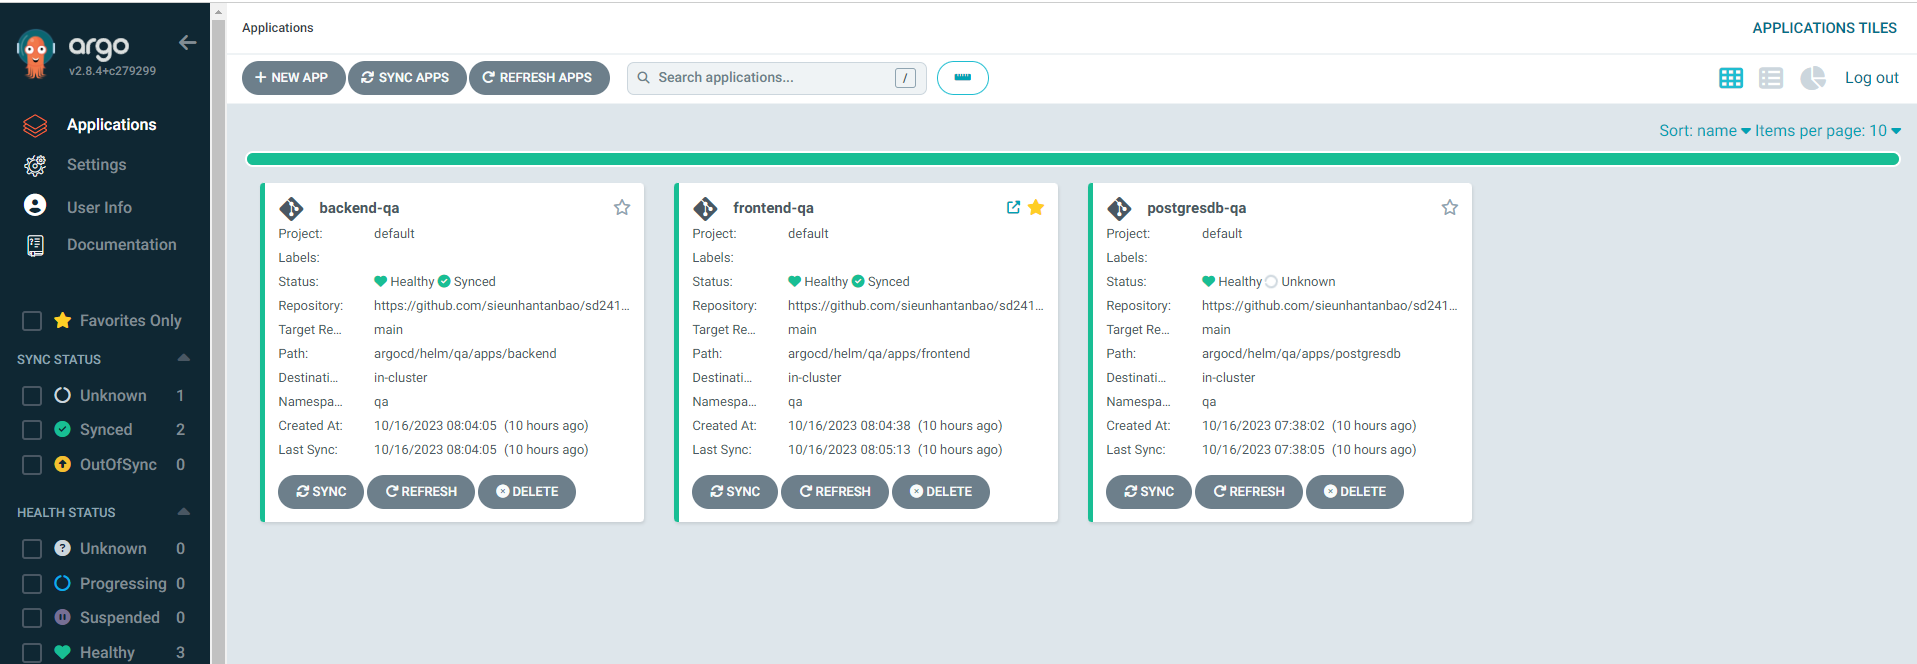
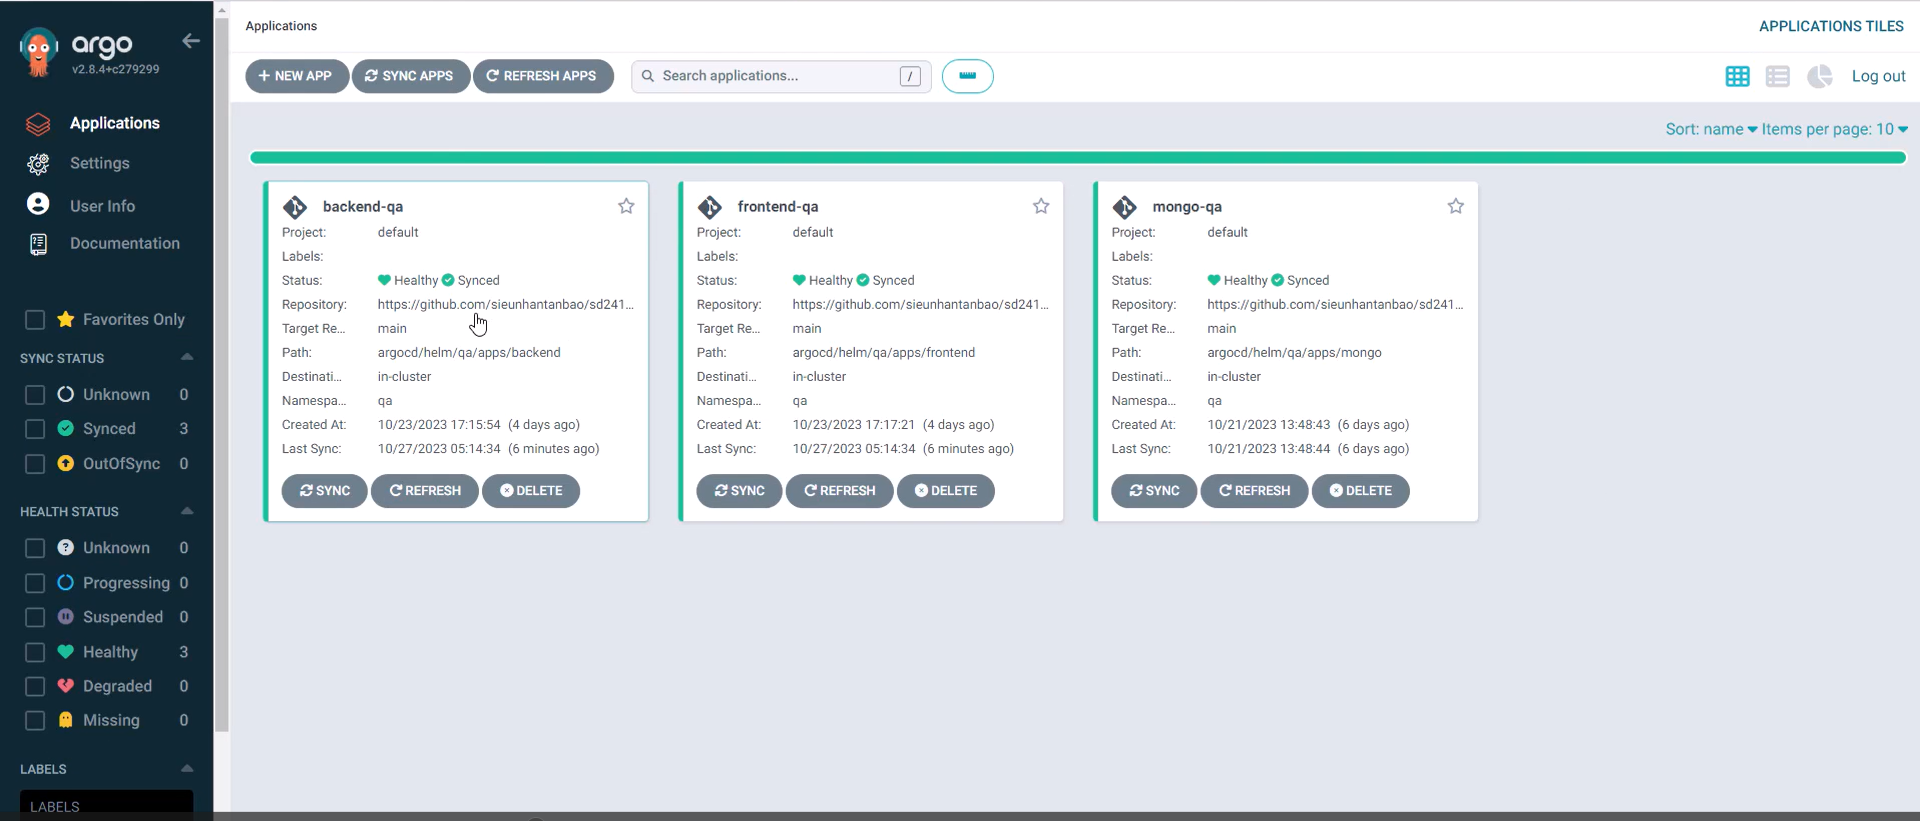
Update ReadMe.md

Changed region(s): [[0.0, 0.0, 1.0, 1.0]]

diff --git a/README.md b/README.md
@@ -101,7 +101,7 @@ For further details of the setup, please visit [sd2411_devops_ci](https://github
 --docker-server=<container registry name>.azurecr.io  \
 --docker-username=<Service principal ID>  \
 --docker-password=<Service principal password>`
-	- Deploy database: `kubectl apply -f 1-postgres.yml`
+	- Deploy database: `kubectl apply -f 1-mongo.yml`
 	- Deploy backend: `kubectl apply -f 2-backend.yml`
 	- Deploy frontend: `kubectl apply -f 3-frontend.yml`
 
